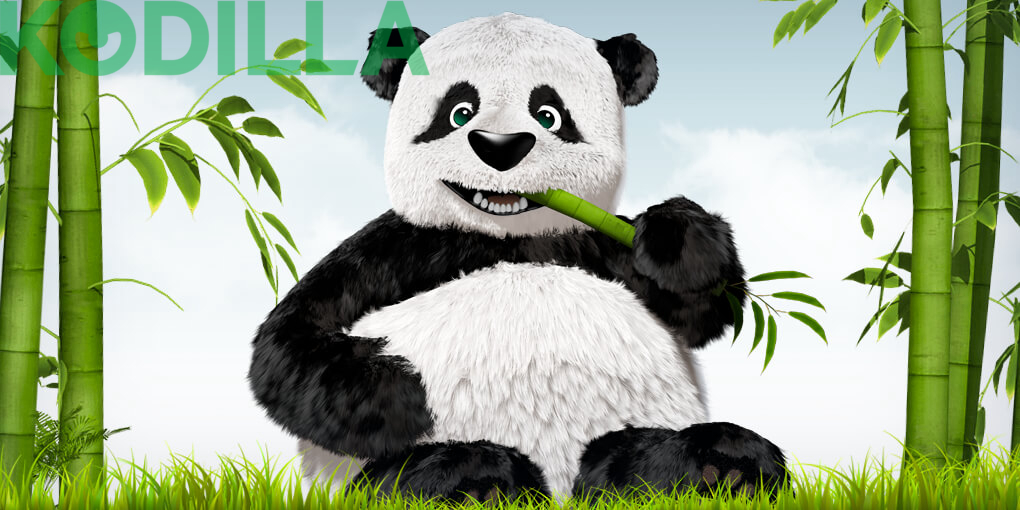
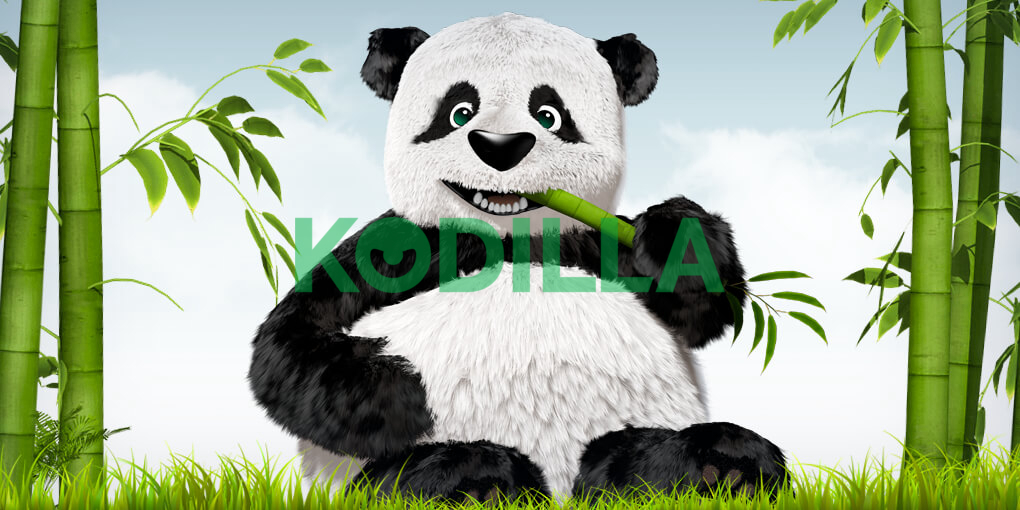
position watermark image in a picture

Changed region(s): [[0.2735, 0.4118, 0.7294, 0.5882], [0.0, 0.0, 0.4255, 0.1471]]

diff --git a/app.js b/app.js
@@ -20,8 +20,10 @@ addTextWatermarkToImage('./test.jpg', './test-with-watermark.jpg', 'Hello World!
 const addImageToWatermarkImage = async function(inputFile, outputFile, watermarkFile) {
     const image = await Jimp.read(inputFile);
     const watermark = await Jimp.read(watermarkFile);
+    const x = image.getWidth() / 2 - watermark.getWidth() / 2;
+    const y = image.getHeight() / 2 - watermark.getHeight() / 2;
 
-    image.composite(watermark, 0, 0, {
+    image.composite(watermark, x, y, {
         mode: Jimp.BLEND_SOURCE_OVER,
         opacitySource: 0.5,
     });
